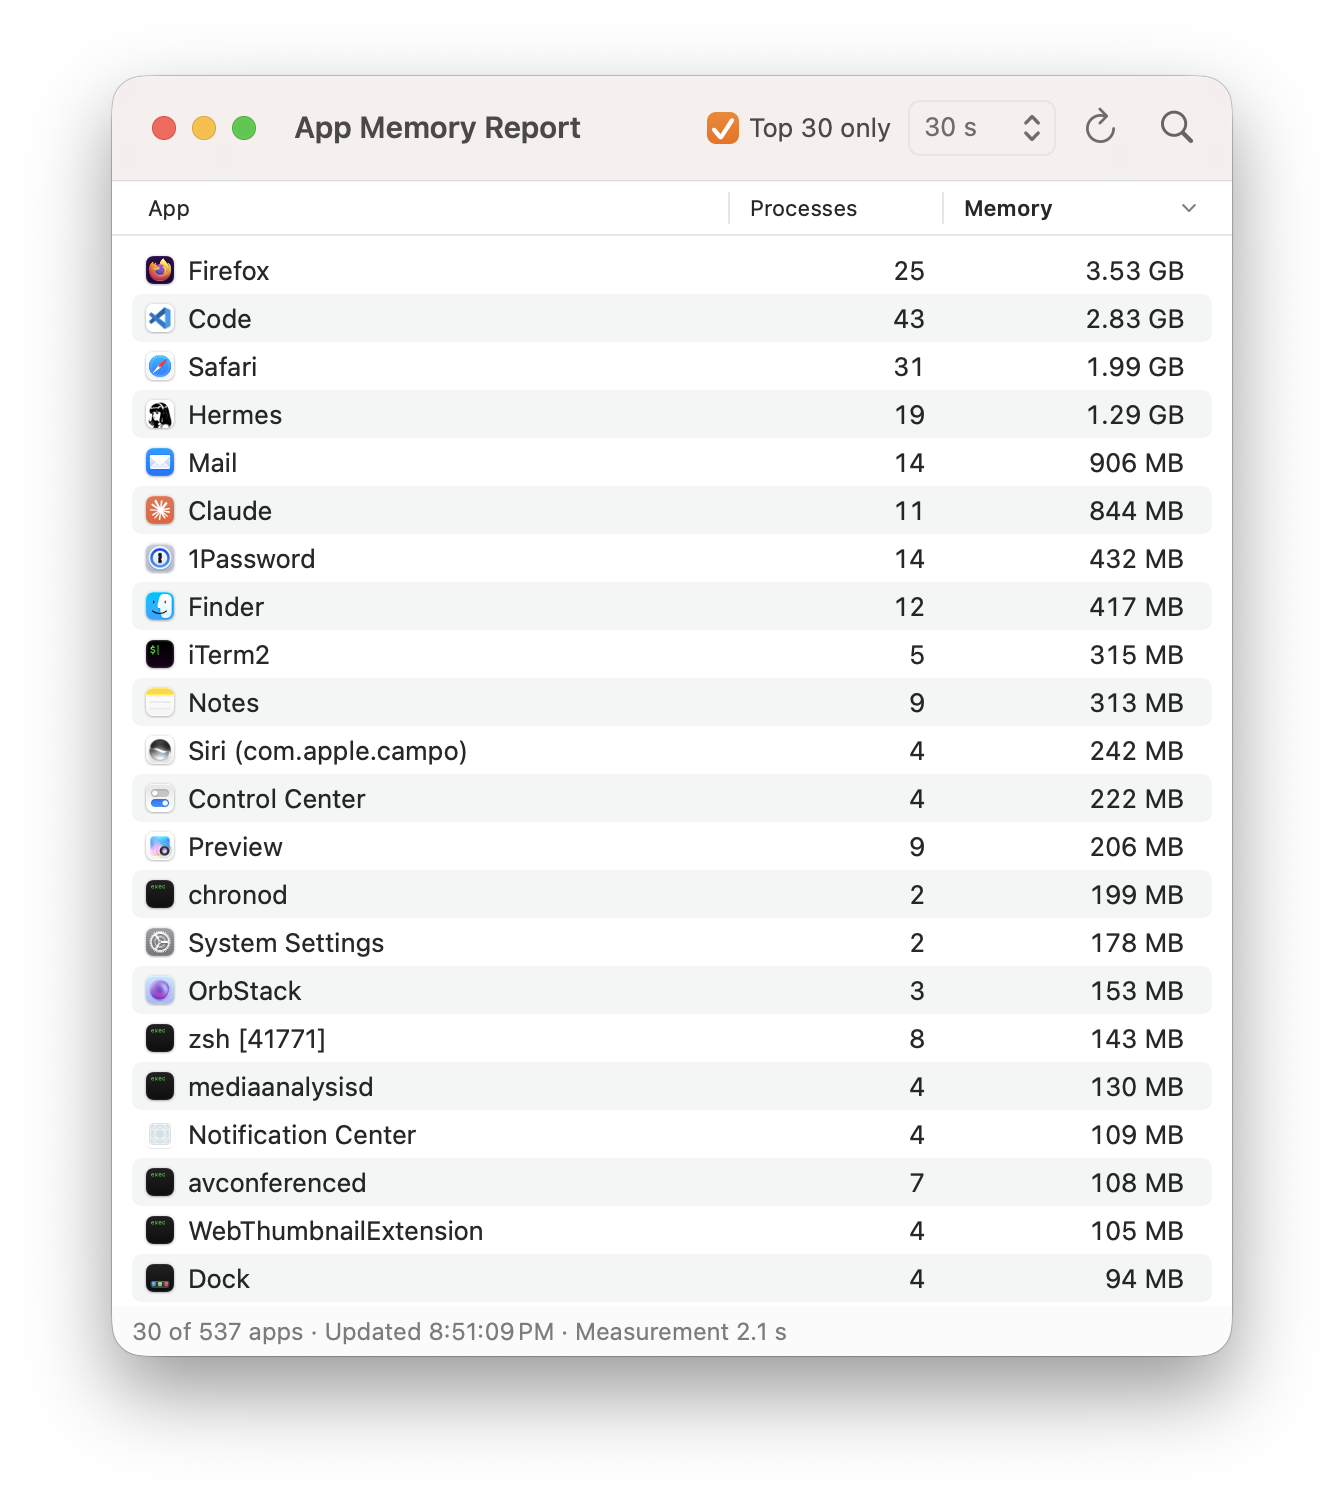
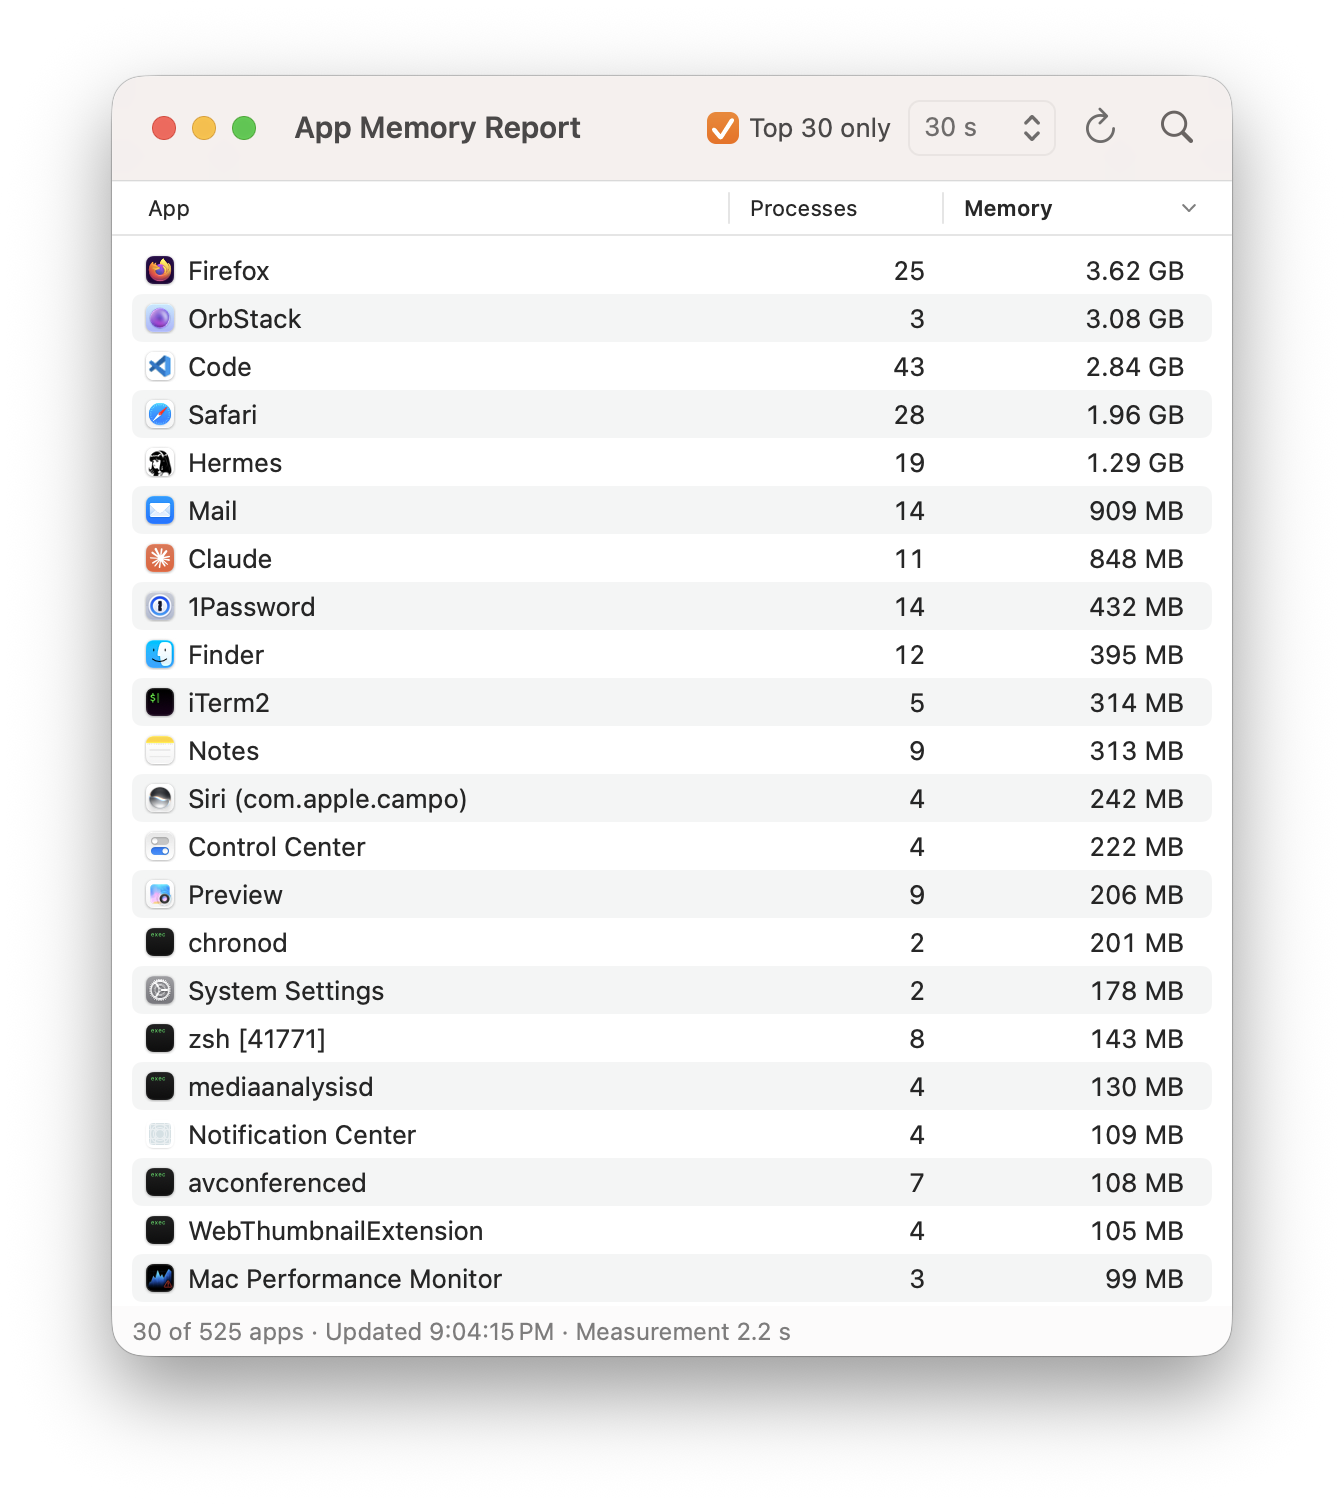
use phys_footprint

diff --git a/Sources/MemoryCore/Footprint.swift b/Sources/MemoryCore/Footprint.swift
@@ -10,14 +10,18 @@ public struct Measurement: Sendable {
 
 /// Measures groups of PIDs with `/usr/bin/footprint`.
 ///
-/// `footprint` reports the same per-process value as `ri_phys_footprint`, but its
-/// "total footprint" counts memory shared between the given processes only once.
+/// `footprint`'s "total footprint" counts memory shared between the given processes only
+/// once. It sums the memory regions it can see, though, while the kernel's
+/// `phys_footprint` (`ri_phys_footprint`, Activity Monitor's "Memory") also charges memory
+/// that doesn't show up as dirty there. For example, OrbStack's helper maps its VM disk
+/// image, and gigabytes of it count as clean file pages for `footprint`, but as footprint
+/// for the kernel. That excess is added per process, so the result matches `phys_footprint`.
 enum Footprint {
     private static let executable = URL(fileURLWithPath: "/usr/bin/footprint")
 
     /// Runs `footprint` for `pids` and waits for it, or falls back to the rusage-based sum.
     static func measure(_ pids: [pid_t], qos: QualityOfService = .default) -> Measurement {
-        // Nothing is shared within a single process, so the kernel value is exact.
+        // Nothing is shared within a single process, so the kernel value is all we need.
         if pids.count == 1 {
             let bytes = ProcessTable.physFootprint(of: pids[0])
             return Measurement(bytes: bytes ?? 0, processCount: bytes == nil ? 0 : 1, deduplicated: true)
@@ -48,11 +52,16 @@ enum Footprint {
               let total = (json["total footprint"] as? NSNumber)?.uint64Value
         else { return nil }
 
+        // Per PID: the kernel's phys_footprint, and how much it exceeds footprint's own value.
         var perProcess: [pid_t: UInt64] = [:]
+        var excess: [pid_t: UInt64] = [:]
         for entry in processes {
             if let pid = (entry["pid"] as? NSNumber)?.int32Value,
                let bytes = (entry["footprint"] as? NSNumber)?.uint64Value {
-                perProcess[pid] = bytes
+                let auxiliary = entry["auxiliary"] as? [String: Any]
+                let phys = (auxiliary?["phys_footprint"] as? NSNumber)?.uint64Value ?? bytes
+                perProcess[pid] = max(phys, bytes)
+                excess[pid] = phys > bytes ? phys - bytes : 0
             }
         }
 
@@ -64,7 +73,8 @@ enum Footprint {
             let own = perProcess.filter { requested.contains($0.key) }
             return Measurement(bytes: own.values.reduce(0, +), processCount: own.count, deduplicated: false)
         }
-        return Measurement(bytes: total, processCount: perProcess.count, deduplicated: true)
+        return Measurement(bytes: total + excess.values.reduce(0, +), processCount: perProcess.count,
+                           deduplicated: true)
     }
 
     private static func rusageSum(of pids: [pid_t]) -> Measurement {

diff --git a/CLAUDE.md b/CLAUDE.md
@@ -23,7 +23,7 @@ The pipeline is `MemoryReport.measure` in `MemoryCore/MemoryReport.swift`: snaps
 
 - **`ProcessTable.swift`**: snapshots every visible PID via libproc (`proc_listallpids`, `proc_pidinfo`, `proc_pidpath`). It also calls the private libSystem function `responsibility_get_pid_responsible_for_pid` (bound via `@_silgen_name`) to get the "responsible" PID, the same attribution Activity Monitor uses (e.g. Safari is responsible for its WebKit XPC services).
 - **`Grouping.swift`**: returns `ProcessGroup`s (name, PIDs, outermost `.app` path for icons). Each process is attributed to a *root*. The lookup follows the responsible PID if it's a different process, otherwise the parent (if `ppid > 1`), until neither applies. It runs on the unfiltered table, so a chain can pass through other users' processes (e.g. Terminal → `login` → `zsh`). Roots whose executable sits in an `.app` bundle are merged per **outermost** bundle ID (nested helper apps count toward their parent) and named after the bundle's display name, localized for the user's languages via `Bundle.localizedString(forKey:…localizations:)` (macOS 15.4+, soft hyphens removed). Other roots are one row each, named after the executable, with `[pid]` / `(bundleID)` appended when names collide. Special case: while Safari runs, non-bundle roots whose path contains "Safari" (sync, safe browsing and history agents) are added to Safari. The UID filter is applied only after attribution. The tool itself is not excluded, so the GUI shows its own memory (its localized display name, "App Memory Report" / "Speicherverbrauch", when run as an .app).
-- **`Footprint.swift`**: `Footprint.measure` runs `/usr/bin/footprint` for one group, writing JSON to a temp file. footprint's `total footprint` counts memory shared between the processes in a group only once. Groups with a single process skip footprint and use `ri_phys_footprint` directly, which is the same value. `MemoryReport` runs all measurements via `parallelMap` (`Parallel.swift`, by default at most one per CPU core). Index 0 is the all-PIDs run behind the total ("Total"/"Gesamt"), so rows can add up to more than the total. A row (or the total) is marked `*` when the deduplicated total couldn't be used, and it then falls back to a plain sum of per-process values. This happens in two cases:
+- **`Footprint.swift`**: `Footprint.measure` runs `/usr/bin/footprint` for one group, writing JSON to a temp file. footprint's `total footprint` counts memory shared between the processes in a group only once, but it only sums the regions it sees as dirty. The kernel's `phys_footprint` can charge more (OrbStack's helper: ~3 GB of its mapped VM disk image counts as clean "mapped file" for footprint), so each process's excess of `auxiliary.phys_footprint` over its `footprint` from the JSON is added to the total. Groups with a single process skip footprint and use `ri_phys_footprint` directly. `MemoryReport` runs all measurements via `parallelMap` (`Parallel.swift`, by default at most one per CPU core). Index 0 is the all-PIDs run behind the total ("Total"/"Gesamt"), so rows can add up to more than the total. A row (or the total) is marked `*` when the deduplicated total couldn't be used, and it then falls back to a plain sum of per-process values. This happens in two cases:
   - footprint failed to run, so the per-process `ri_phys_footprint` from `proc_pid_rusage` is summed instead.
   - footprint's report contains PIDs that weren't requested. A requested PID that exited in the meantime gets treated as a process *name* pattern and can pull in unrelated processes. Only the requested PIDs' values are summed.
 - **GUI** (`AppMemoryReport/`): `MemoryModel` (`@Observable`, main actor) measures without the total (by far the slowest run) and, with "Top 30 only" (default), passes `limit: 30` to `MemoryReport.measure`, which ranks groups by the cheap plain sum of `ri_phys_footprint` and runs footprint only for the top 40 candidates. It uses at most 4 parallel `footprint`s at `.utility` QoS. `runAutoRefresh` polls once per second and starts a measurement once `interval` (default 30 s; a top-30 refresh costs ~14 CPU-s) has passed since the previous one *finished*, only while a window is visible (the first measurement always runs). `ContentView` shows a sortable `Table` (initially by memory, descending) with search, an interval picker and a status bar showing the measurement duration. Only the current user's processes.

diff --git a/README.md b/README.md
@@ -4,6 +4,8 @@ How much memory does Firefox *really* use? Or VS Code, Mail, or Safari?
 
 A macOS command-line tool and a small SwiftUI app that answer this per app. Each app's figure includes all its helper, renderer, GPU and XPC processes, and memory those processes share is counted only once.
 
+<img src="docs/screenshot.png" width="672" alt="App Memory Report window listing apps with their process count and memory, sorted by memory">
+
 ## Motivation
 
 Modern apps are not one process. A browser with a dozen tabs easily runs 20–50 processes: content/renderer processes, a GPU process, network and utility helpers, and XPC services launched on its behalf. Activity Monitor lists them as separate rows, often with names like "Isolated Web Content" or "Helper (Renderer)" that don't make it obvious which app they belong to.
@@ -70,7 +72,7 @@ snapshot processes → attribute to apps → measure each group → table
 
 **Grouping** (`Grouping.swift`): each process follows its responsible PID, or otherwise its parent, up to a *root*. Roots inside the same `.app` bundle are merged by the **outermost** bundle, so nested helper apps (`Firefox.app/Contents/MacOS/plugin-container.app`, Electron helpers, …) count toward their main app. Each group is named after the bundle's display name. Processes outside any bundle each form a row named after their executable. While Safari runs, its background agents (sync, Safe Browsing, history) are added to it.
 
-**Measuring** (`Footprint.swift`): each group's PIDs are passed to a single `/usr/bin/footprint` run. Its *total footprint* is the group's physical memory with shared pages counted once. Footprint is the same metric Activity Monitor calls "Memory": dirty memory, plus compressed and swapped memory. Single-process groups skip footprint and read the kernel value (`ri_phys_footprint`) directly. If footprint fails, or a process exits in the meantime and footprint's report includes processes that weren't requested, the row falls back to the plain per-process sum and is marked `*`. The groups are measured in parallel.
+**Measuring** (`Footprint.swift`): each group's PIDs are passed to a single `/usr/bin/footprint` run. Its *total footprint* is the group's physical memory with shared pages counted once. Footprint is the same metric Activity Monitor calls "Memory": dirty memory, plus compressed and swapped memory. The kernel sometimes charges a process for memory that footprint's region analysis counts as clean, e.g. OrbStack's helper for gigabytes of its mapped VM disk image. That difference is added per process, so the figures agree with Activity Monitor's, except that shared memory is counted once. Single-process groups skip footprint and read the kernel value (`ri_phys_footprint`) directly. If footprint fails, or a process exits in the meantime and footprint's report includes processes that weren't requested, the row falls back to the plain per-process sum and is marked `*`. The groups are measured in parallel.
 
 **Cost:** footprint is not cheap. Measuring all processes together for the total takes ~8 s and ~50 CPU-seconds on a busy machine. That's why the GUI skips the total and, by default, measures only the top candidates. Groups are first ranked by the cheap per-process sum, then footprint runs for the top 40, and the 30 largest are shown. A refresh then costs ~2 s and ~14 CPU-seconds.
 
